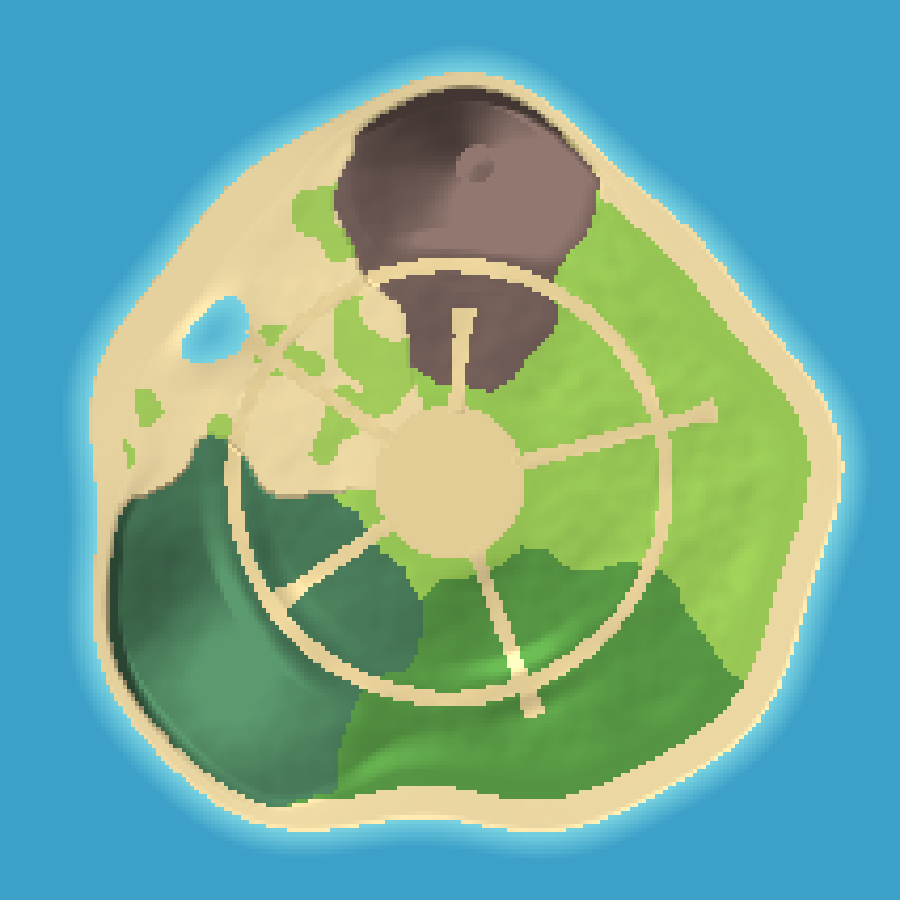
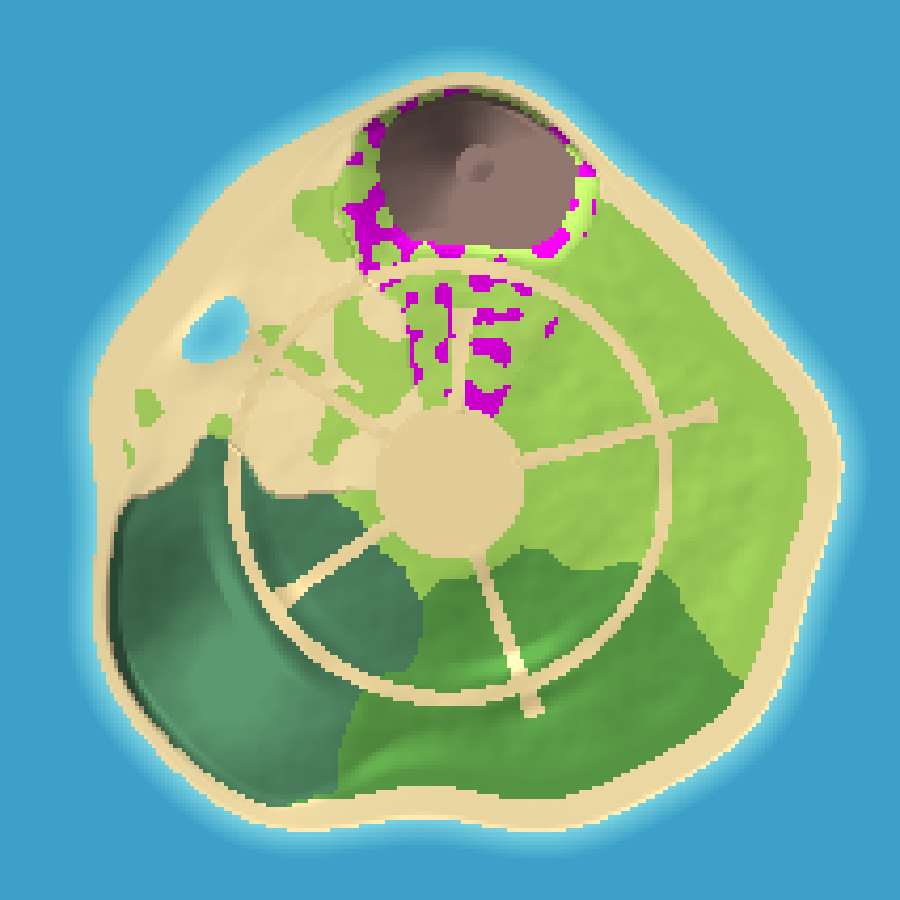
BD-1210 world V3 step 3: four generated zone landmarks (giant tree, lagoon arch, stone dino statue, waterfall) on their sites facing the plaza, volcano smoke and glow; Studio pictures

Changed region(s): [[0.3733, 0.1244, 0.6844, 0.4667], [0.4356, 0.0933, 0.5911, 0.1244], [0.5911, 0.1244, 0.6222, 0.1556]]

diff --git a/tests/test_world_generated_meshes.py b/tests/test_world_generated_meshes.py
@@ -21,6 +21,7 @@ BARE = ["world_boulder_bare_s", "world_boulder_bare_m", "world_boulder_bare_l"]
 BARE_KINDS = {"rock_crystal", "rock_lava", "rock_pebbles", "rock_sand_cliff", "rock_mossy_boulder"}
 
 
+LANDMARKS_V3 = {"126740053119061", "98605517737411", "103276379519605", "82497121541738"}  # BD-1210 zone landmarks
 FOOD_V3 = {"99045170762079", "139581304104090", "129705634874362", "88917163545445", "117479980654305", "84298170121399", "89498247826218", "113390214356638"}  # BD-1208: V3 food meshes (FoodV3Enabled), placed by the food layer, not the world
 
 class WorldGeneratedMeshTests(unittest.TestCase):
@@ -31,9 +32,9 @@ class WorldGeneratedMeshTests(unittest.TestCase):
         self.kitmap = dict(re.findall(r'(world_\w+) = "(\w+)"', table))
 
     def test_ids_are_numeric_unique_and_exactly_the_published_set(self):
-        self.assertEqual(len(self.assets), 25)
-        self.assertEqual(len(set(self.assets.values())), 25, "duplicated asset id")
-        self.assertEqual(set(self.assets.values()), EXPECTED | FOOD_V3)
+        self.assertEqual(len(self.assets), 29)
+        self.assertEqual(len(set(self.assets.values())), 29, "duplicated asset id")
+        self.assertEqual(set(self.assets.values()), EXPECTED | FOOD_V3 | LANDMARKS_V3)
         self.assertEqual(len(re.findall(r'assetId = "', ASSETS_BLOCK)), 17)  # the world block; food V3 lives after it
         for value in self.assets.values():
             self.assertRegex(value, r"^[1-9][0-9]{8,17}$")
@@ -50,7 +51,7 @@ class WorldGeneratedMeshTests(unittest.TestCase):
             self.assertIn(f'"{kind}"', SRC.split("function Generated.visualFor")[1])
 
     def test_unplaced_kinds_are_the_food_and_nest_ones(self):
-        self.assertEqual(set(self.assets) - self.placed, {"food_drumstick", "food_egg", "nest"} | {k for k in self.assets if k.startswith("food_v3_")})
+        self.assertEqual(set(self.assets) - self.placed, {"food_drumstick", "food_egg", "nest"} | {k for k in self.assets if k.startswith(("food_v3_", "landmark_v3_"))})  # landmarks are placed by Arena.v3Landmarks, not the kit grammar
 
     def test_every_id_has_an_asset_registry_line(self):
         for key, asset_id in self.assets.items():

diff --git a/docs/77-asset-registry.md b/docs/77-asset-registry.md
@@ -396,6 +396,10 @@ The 17-sound pack from `assets/audio/sfx/` (synthesized placeholders by `tools/g
 | world_gen_food_v3_egg_b | 3D mesh, V3 food pickup: purple-spotted egg in a twig nest, 1500 tris (BD-1208, Roblox generate_mesh from the approved food icon, published to owner account 2026-11-15; no repo file; docs/evidence/2026-11-15-food-v3/generated-food.json) | - | 84298170121399 | src/shared/WorldGeneratedMeshes.luau Food, src/server/ImportedResources.luau loadGeneratedWorld, src/server/FoodService.luau makePickup | published, loaded and used only with Config.FoodV3Enabled (playtest profile); a failed load keeps the kit mesh |
 | world_gen_food_v3_amber_a | 3D mesh, V3 food pickup: amber nugget with a fern and bug fossil (tinted), 1500 tris (BD-1208, Roblox generate_mesh from the approved food icon, published to owner account 2026-11-15; no repo file; docs/evidence/2026-11-15-food-v3/generated-food.json) | - | 89498247826218 | src/shared/WorldGeneratedMeshes.luau Food, src/server/ImportedResources.luau loadGeneratedWorld, src/server/FoodService.luau makePickup | published, loaded and used only with Config.FoodV3Enabled (playtest profile); a failed load keeps the kit mesh |
 | world_gen_food_v3_amber_b | 3D mesh, V3 food pickup: amber nugget with a fern fossil (tinted), 1000 tris (BD-1208, Roblox generate_mesh from the approved food icon, published to owner account 2026-11-15; no repo file; docs/evidence/2026-11-15-food-v3/generated-food.json) | - | 113390214356638 | src/shared/WorldGeneratedMeshes.luau Food, src/server/ImportedResources.luau loadGeneratedWorld, src/server/FoodService.luau makePickup | published, loaded and used only with Config.FoodV3Enabled (playtest profile); a failed load keeps the kit mesh |
+| world_gen_landmark_v3_giant_tree | 3D mesh, gigantic ancient broadleaf tree, twisted trunk, round canopy, forest zone landmark (BD-1210, Roblox generate_mesh, published to owner account 2026-11-15; no repo file; docs/evidence/2026-11-15-world/landmarks) | - | 126740053119061 | src/shared/WorldGeneratedMeshes.luau Landmarks, src/server/ImportedResources.luau loadGeneratedWorld, src/server/Arena.luau v3Landmarks | published, loaded and used only with Config.WorldV3Enabled (playtest profile); a failed load leaves the site an open clearing |
+| world_gen_landmark_v3_lagoon_arch | 3D mesh, natural sandstone rock arch with moss, palm beach lagoon landmark (BD-1210, Roblox generate_mesh, published to owner account 2026-11-15; no repo file; docs/evidence/2026-11-15-world/landmarks) | - | 98605517737411 | src/shared/WorldGeneratedMeshes.luau Landmarks, src/server/ImportedResources.luau loadGeneratedWorld, src/server/Arena.luau v3Landmarks | published, loaded and used only with Config.WorldV3Enabled (playtest profile); a failed load leaves the site an open clearing |
+| world_gen_landmark_v3_fossil_statue | 3D mesh, mossy stone dino statue on a flower plinth, meadow landmark (BD-1210, Roblox generate_mesh, published to owner account 2026-11-15; no repo file; docs/evidence/2026-11-15-world/landmarks) | - | 103276379519605 | src/shared/WorldGeneratedMeshes.luau Landmarks, src/server/ImportedResources.luau loadGeneratedWorld, src/server/Arena.luau v3Landmarks | published, loaded and used only with Config.WorldV3Enabled (playtest profile); a failed load leaves the site an open clearing |
+| world_gen_landmark_v3_waterfall | 3D mesh, blue waterfall into a splash pool under a mossy rock frame, pine hill landmark (BD-1210, Roblox generate_mesh, published to owner account 2026-11-15; no repo file; docs/evidence/2026-11-15-world/landmarks) | - | 82497121541738 | src/shared/WorldGeneratedMeshes.luau Landmarks, src/server/ImportedResources.luau loadGeneratedWorld, src/server/Arena.luau v3Landmarks | published, loaded and used only with Config.WorldV3Enabled (playtest profile); a failed load leaves the site an open clearing |
 | hatch_v2_egg | 3D mesh, the v2 hatch egg: REUSES world_gen_food_egg 80664439797104 (docs/118 s4 evaluation) | - | 80664439797104 | src/shared/HatchV2Assets.luau egg, src/server/ImportedResources.luau loadHatchV2 (ReplicatedStorage.HatchV2Models.egg), src/client/HatchEggV2.luau (viewport egg, paint coats baked on its own texture) | behind Config.HatchV2 (false); a failed load = the shipped v1 hatch look (BD-397) |
 | hatch_v2_bucket_placeholder | 3D mesh, PLACEHOLDER paint bucket: the cave hub barrel 81905342774801 stands in until the bucket mesh (docs/118 asset B) is generated | - | 81905342774801 | src/shared/HatchV2Assets.luau bucket (Placeholder), loadHatchV2, src/client/HatchEggV2.luau | placeholder behind Config.HatchV2 (false); replace with the generated bucket, then flip this row |
 | world_gen_nest | 3D mesh, Nest (Roblox generate_mesh, published to owner account 2026-10-16; no repo file) | - | 102765517629578 | src/shared/WorldGeneratedMeshes.luau, src/server/ImportedResources.luau loadGeneratedWorld, src/server/Arena.luau: registered and load-checked only; not placed | published, loaded by loadGeneratedWorld, not placed; a failed load keeps the current kit model |
